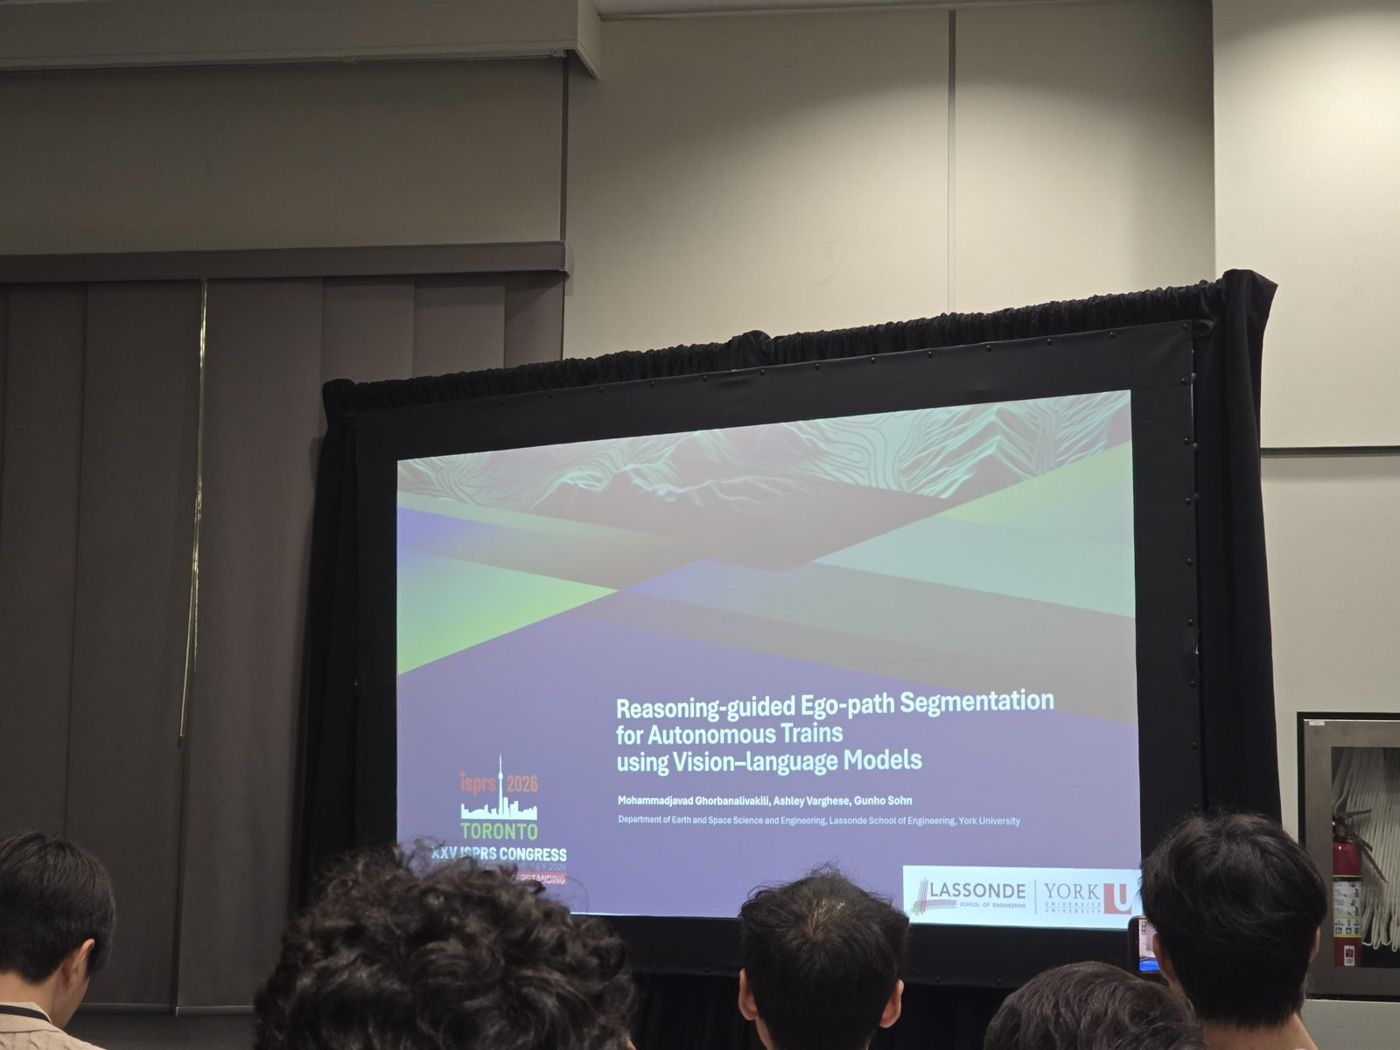
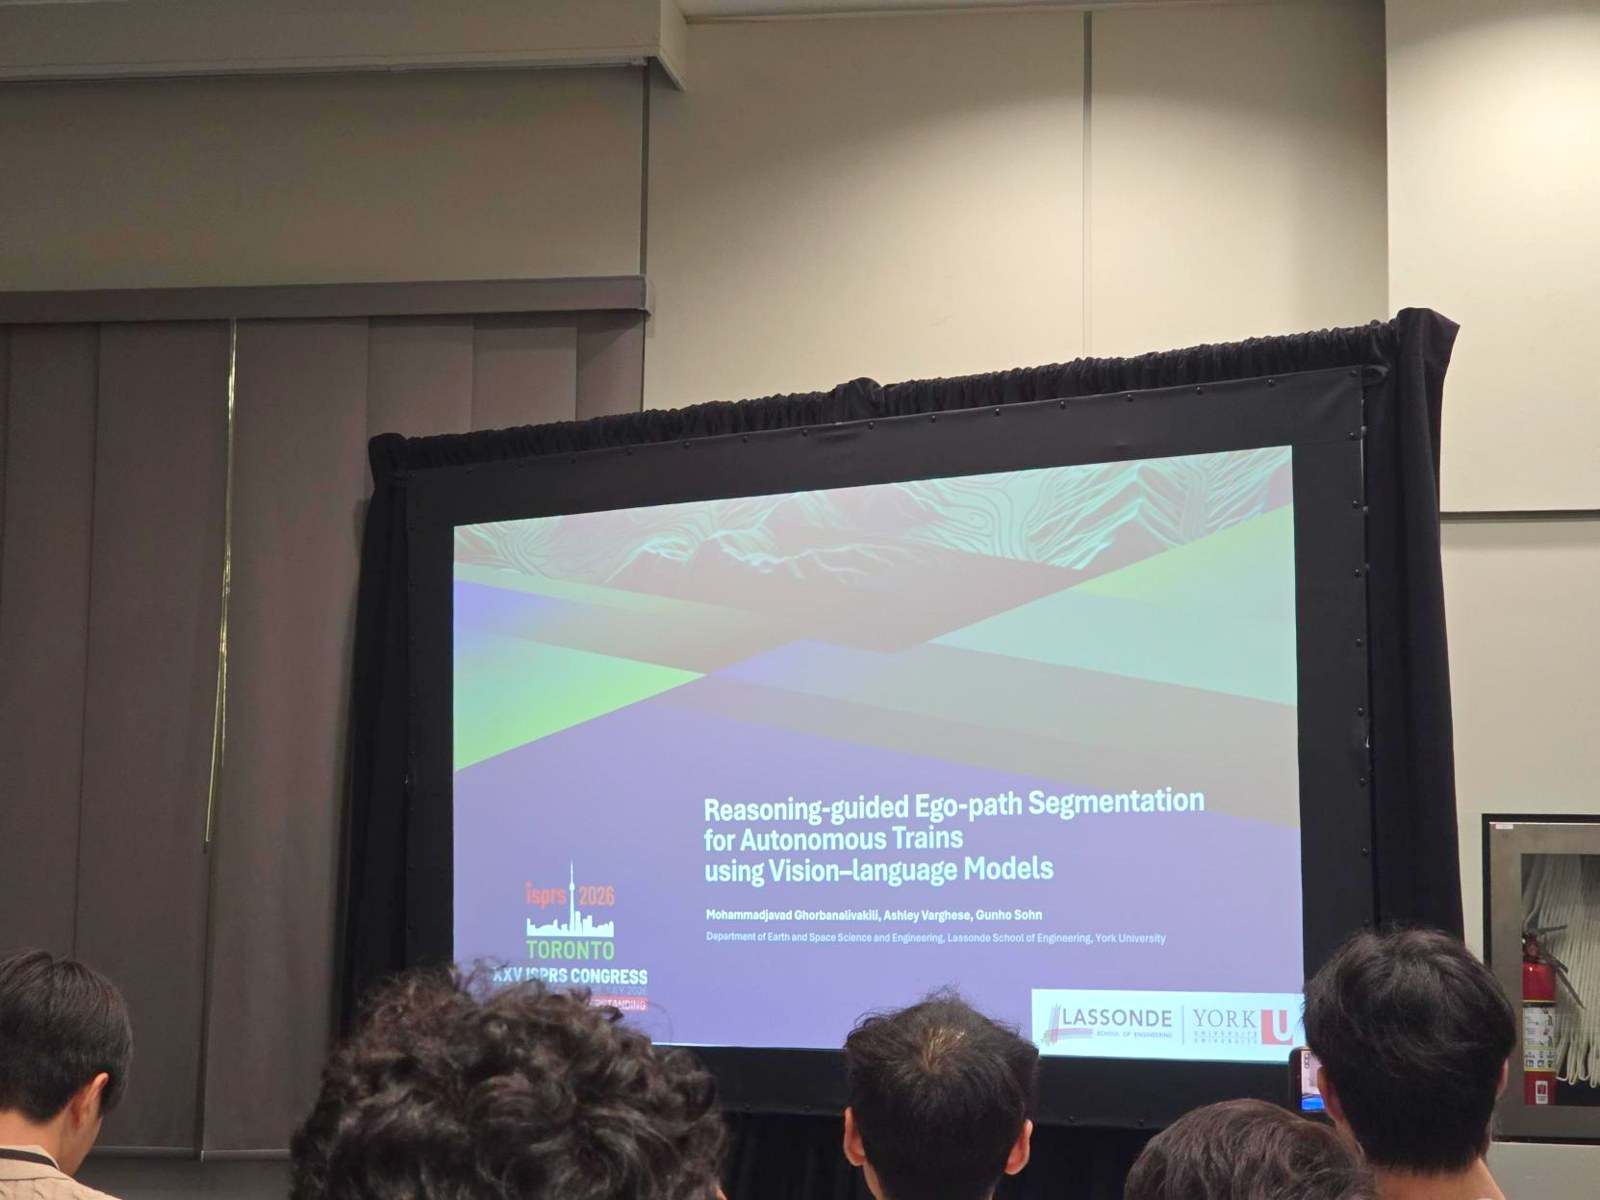
ISPRS 2026 album: brighter talk/poster shots, session and Teledyne booth photos; drop duplicate talk photo
Claude-Session: https://claude.ai/code/session_015v4UsBkBj3gtf98nHyMMHL

diff --git a/content/posts/ausmlab-at-the-xxv-isprs-congress-2026-in-toronto.html b/content/posts/ausmlab-at-the-xxv-isprs-congress-2026-in-toronto.html
@@ -17,7 +17,6 @@ source: "https://gunhosohn.me/2026/08/06/ausmlab-at-the-xxv-isprs-congress-2026-
 <p>Congratulations to all authors, and thanks to everyone who visited our presentations and poster. It was a special pleasure to host the photogrammetry and remote sensing community in our home city of Toronto.</p>
 <figure>
 <figure><img alt="AUSM Lab members with Prof. Sohn at the XXV ISPRS Congress" src="/images/gallery/isprs-2026-group.jpg"/></figure>
-<figure><img alt="Sunghwan (Jacob) Yoo presenting at the ISPRS Congress" src="/images/gallery/isprs-2026-talk-yoo.jpg"/></figure>
 <figure><img alt="" src="/images/wp/5389-20260706_181623.jpg"/></figure>
 <figure><img alt="" src="/images/wp/5388-20260706_180220-rotated.jpg"/></figure>
 <figure><img alt="" src="/images/wp/5387-20260707_1529410-rotated.jpg"/></figure>
